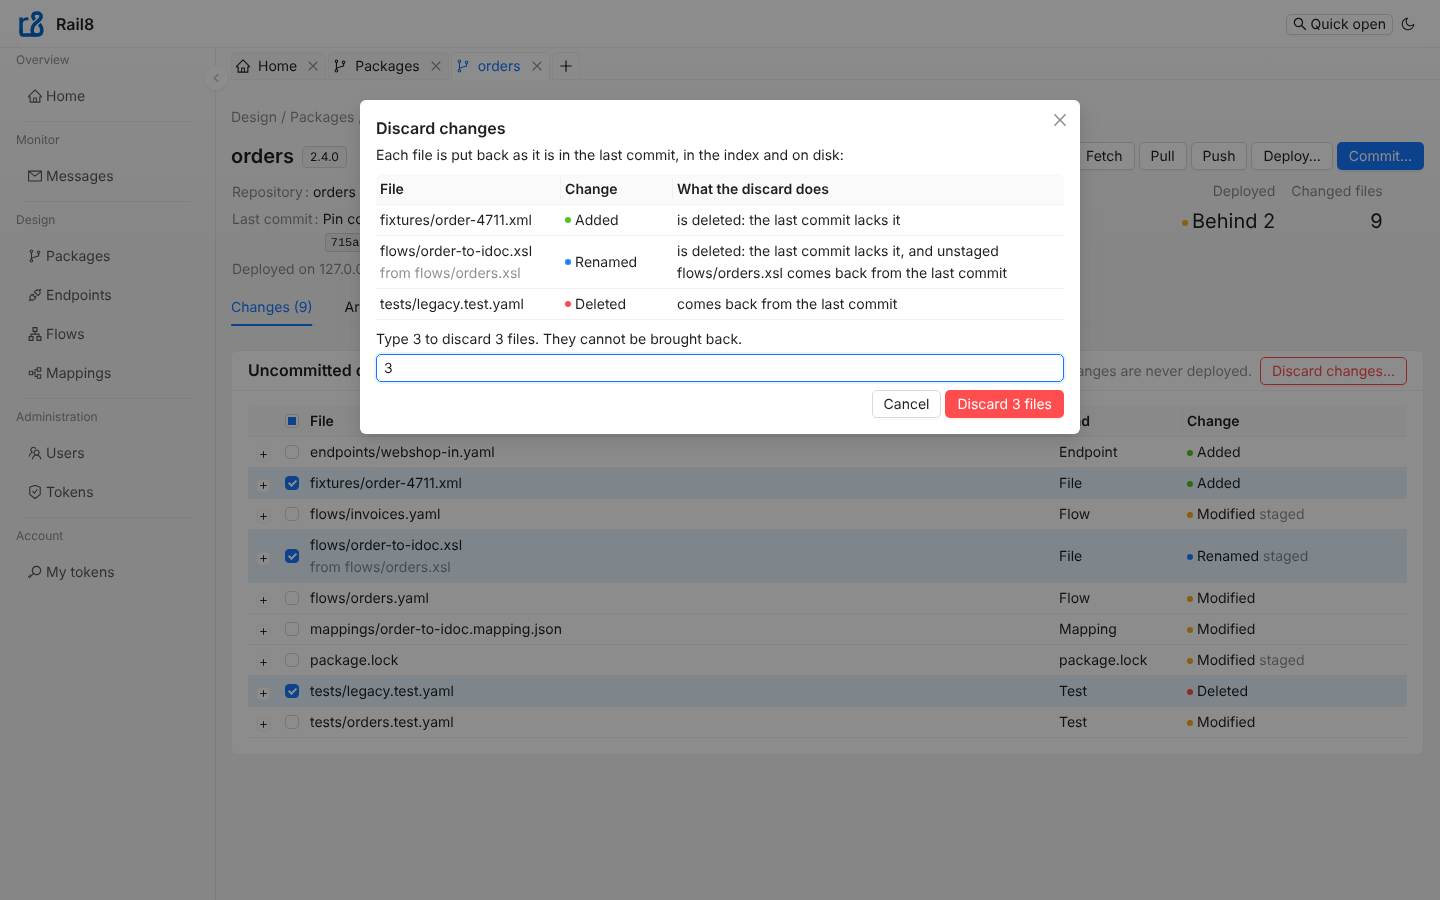
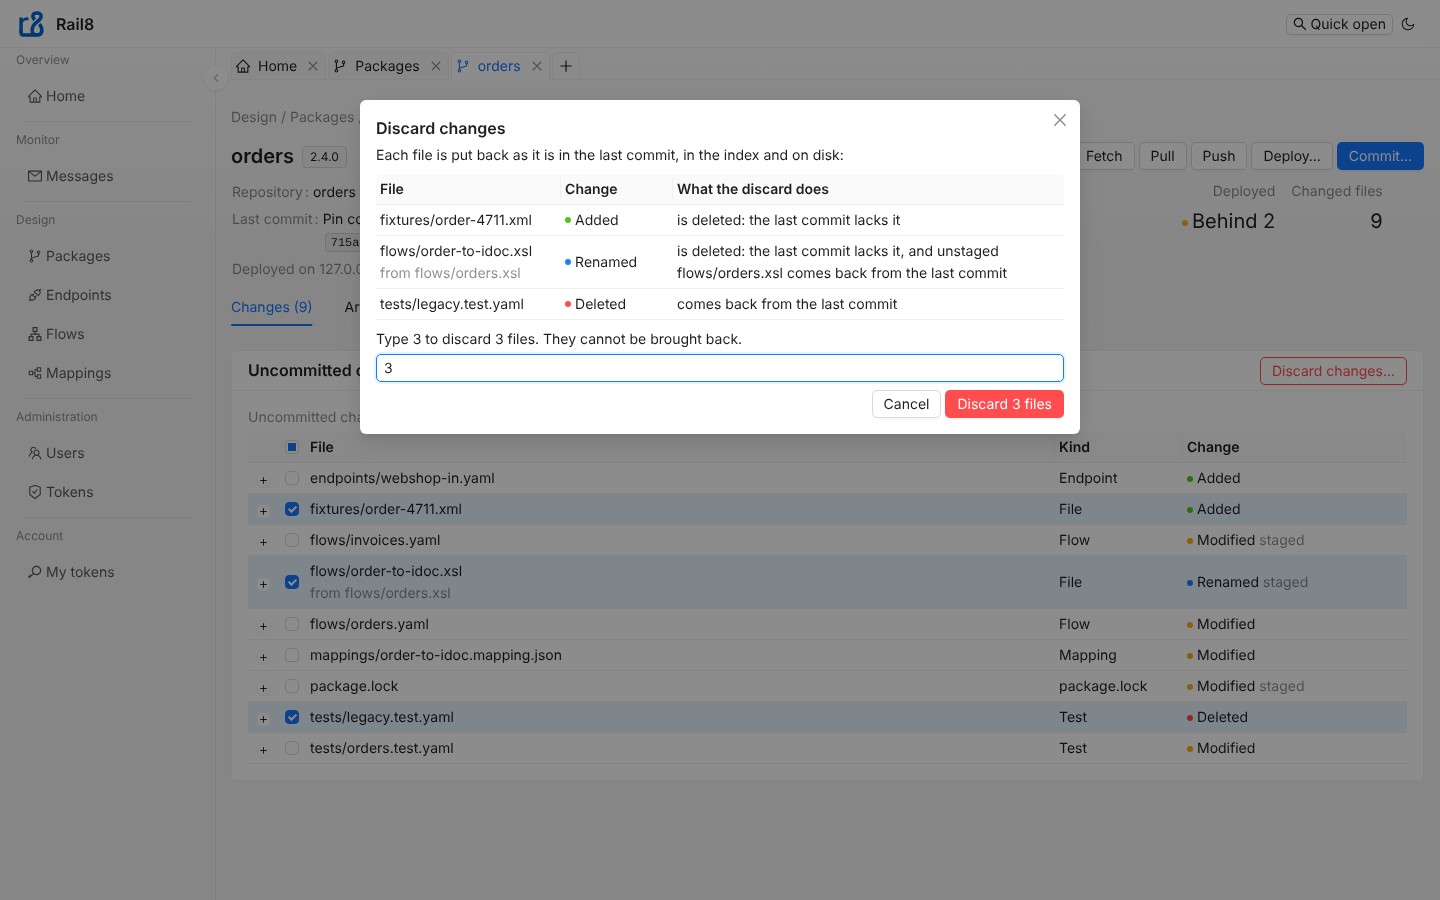
Discard: say only what the answer holds, and one item in the card header
The dialog after a discard is "Discarded in part" only when files are left,
lists them only then, and says that no chosen file reads as in the last
commit yet, never that no change was discarded. A server failure reads as
failed, not refused. The note that uncommitted changes are never deployed
moves above the table, so the Changes card's header holds Discard changes…
alone. The Changes table ticks only paths among the current changes.

Claude-Session: https://claude.ai/code/session_018sN5AVCgF8qj2BGSZvsZUU

diff --git a/ui/src/packages/DiscardChangesDialog.tsx b/ui/src/packages/DiscardChangesDialog.tsx
@@ -51,7 +51,7 @@ function listedOf(picked: readonly Change[], changes: readonly Change[]): Listed
     });
 }
 
-type Shown = { kind: 'choosing' } | { kind: 'refused'; error: string; output?: string } | { kind: 'discarded'; answer: DiscardAnswer };
+type Shown = { kind: 'choosing' } | { kind: 'refused'; error: string; failed: boolean; output?: string } | { kind: 'discarded'; answer: DiscardAnswer };
 
 /**
  * The dialog of Discard changes…: every file the discard changes, each with what happens to it, and above them an alert
@@ -111,8 +111,8 @@ export function DiscardChangesDialog({ api, repository, state, picked, onState, 
       }
     } catch (error) {
       onState(null);
-      if (error instanceof PackagesError) setShown({ kind: 'refused', error: error.message, ...(error.output === undefined ? {} : { output: error.output }) });
-      else setShown({ kind: 'refused', error: error instanceof Error ? error.message : String(error) });
+      if (error instanceof PackagesError) setShown({ kind: 'refused', error: error.message, failed: error.status >= 500, ...(error.output === undefined ? {} : { output: error.output }) });
+      else setShown({ kind: 'refused', error: error instanceof Error ? error.message : String(error), failed: true });
     } finally {
       working.reload(paths.map((p) => p.path));
       setDiscarding(false);
@@ -123,7 +123,7 @@ export function DiscardChangesDialog({ api, repository, state, picked, onState, 
     const { answer } = shown;
     return (
       <MountedModal
-        title="Discarded in part"
+        title={answer.left.length > 0 ? 'Discarded in part' : 'Discarded'}
         onCancel={onClose}
         width={720}
         footer={[
@@ -133,13 +133,13 @@ export function DiscardChangesDialog({ api, repository, state, picked, onState, 
         ]}
       >
         <Flex vertical gap="middle">
-          <Typography.Text>{answer.discarded.length === 0 ? 'No change was discarded.' : `Discarded the changes of ${answer.discarded.map(inside).join(', ')}.`}</Typography.Text>
-          <Alert
-            type="warning"
-            showIcon
-            title={`Still changed: ${answer.left.map(inside).join(', ')}`}
-            description={answer.problem !== undefined && <Output text={answer.problem} />}
-          />
+          <Typography.Text>
+            {answer.discarded.length === 0 ? 'No chosen file reads as in the last commit yet.' : `Discarded the changes of ${answer.discarded.map(inside).join(', ')}.`}
+          </Typography.Text>
+          {answer.left.length > 0 && (
+            <Alert type="warning" showIcon title={`Still changed: ${answer.left.map(inside).join(', ')}`} description={answer.problem !== undefined && <Output text={answer.problem} />} />
+          )}
+          {answer.left.length === 0 && answer.problem !== undefined && <Alert type="warning" showIcon title={answer.problem} />}
         </Flex>
       </MountedModal>
     );
@@ -171,7 +171,7 @@ export function DiscardChangesDialog({ api, repository, state, picked, onState, 
           <Alert
             type="error"
             showIcon
-            title="The discard was refused"
+            title={shown.failed ? 'The discard failed' : 'The discard was refused'}
             description={
               <Flex vertical gap="small">
                 <span>{shown.error}</span>

diff --git a/ui/src/packages/PackageTab.browser.test.tsx b/ui/src/packages/PackageTab.browser.test.tsx
@@ -751,6 +751,32 @@ describe('discarding changes of a package', () => {
     await expect.element(tick()).not.toBeChecked();
   });
 
+  test('a discard that left files says which and why, and one whose state could not be read names what it discarded, never that files are left', async () => {
+    const answers = [
+      { discarded: [], left: ['orders/notes.txt'], package: null, problem: 'git checkout-index failed, as git says: error: unable to write file notes.txt' },
+      { discarded: ['orders/notes.txt'], left: [], package: null, problem: 'the package could not be read: package.yaml is missing' },
+    ];
+    const scripted = (api: PackagesApi): PackagesApi => ({ ...api, discard: async () => answers.shift()! });
+    for (const title of ['Discarded in part', 'Discarded']) {
+      await openOrders({ clones: [{ folder: 'orders', files: { 'notes.txt': 'one\n' }, edits: { 'notes.txt': 'two\n' } }] }, scripted);
+      await pick('notes.txt').click();
+      await button('Discard changes…').click();
+      await tick().click();
+      await discardButton('1 file').click();
+      const shown = page.getByRole('dialog', { name: title, exact: true });
+      if (title === 'Discarded in part') {
+        await expect.element(shown.getByText('No chosen file reads as in the last commit yet.')).toBeVisible();
+        await expect.element(shown.getByRole('alert')).toMatchTextContent(/^Still changed: notes\.txtgit checkout-index failed/);
+      } else {
+        await expect.element(shown.getByText('Discarded the changes of notes.txt.')).toBeVisible();
+        await expect.element(shown.getByText('the package could not be read: package.yaml is missing')).toBeVisible();
+        await expect.element(shown.getByText(/Still changed/)).not.toBeInTheDocument();
+      }
+      root?.unmount();
+      document.body.innerHTML = '';
+    }
+  });
+
   test('Discard changes… is disabled with the reason on a read-only server and on a busy clone', async () => {
     const cases: [Seed, string][] = [
       [{ readOnly: true, clones: [{ folder: 'orders', files: { 'a.txt': 'a\n' }, edits: { 'a.txt': 'b\n' } }] }, 'The server shows the working folder read-only (RAIL8_READ_ONLY is true).'],

diff --git a/ui/src/packages/PackageTab.tsx b/ui/src/packages/PackageTab.tsx
@@ -168,27 +168,25 @@ export function PackageTab({ api, repository, now, open, writable }: PackageTabP
             title={<h2>Uncommitted changes</h2>}
             headerBordered
             extra={
-              state.changes.length > 0 && (
-                <Flex gap="middle" align="center" wrap justify="flex-end">
-                  {state.deployed.node === 'answered' && state.deployed.relation !== 'none' && <Typography.Text type="secondary">Uncommitted changes are never deployed.</Typography.Text>}
-                  <DiscardButton refused={discardRefused(writable, state, chosen.length)} onClick={() => setDiscarding(true)} />
-                </Flex>
-              )
+              state.changes.length > 0 && <DiscardButton refused={discardRefused(writable, state, chosen.length)} onClick={() => setDiscarding(true)} />
             }
           >
             {state.changes.length === 0 ? (
               <Empty description="No file differs from the last commit." />
             ) : (
-              <ChangesTable
-                api={api}
-                repository={repository}
-                changes={state.changes}
-                before={state.head?.id ?? null}
-                after="work"
-                onStale={refresh}
-                label="Changes"
-                choice={{ picked, onPick: setPicked }}
-              />
+              <Flex vertical gap="small">
+                {state.deployed.node === 'answered' && state.deployed.relation !== 'none' && <Typography.Text type="secondary">Uncommitted changes are never deployed.</Typography.Text>}
+                <ChangesTable
+                  api={api}
+                  repository={repository}
+                  changes={state.changes}
+                  before={state.head?.id ?? null}
+                  after="work"
+                  onStale={refresh}
+                  label="Changes"
+                  choice={{ picked: chosen.map((c) => c.path), onPick: setPicked }}
+                />
+              </Flex>
             )}
           </ProCard>,
         )}

diff --git a/ui/src/packages/server/discard.ts b/ui/src/packages/server/discard.ts
@@ -168,8 +168,8 @@ export async function discardPaths(git: Runner, lock: WorkingFolderLock, clone: 
         if (info !== null && !info.isDirectory()) meet(p.path, folder);
       }
       if (onDisk[n]?.isDirectory()) {
-        const held = await readdir(join(clone, ...inside.split('/')));
-        if (held.length > 0) meet(p.path, `${inside}/${held.sort(byPath)[0]!}`);
+        const contents = await readdir(join(clone, ...inside.split('/')));
+        if (contents.length > 0) meet(p.path, `${inside}/${contents.sort(byPath)[0]!}`);
       }
     }
     const written = named.filter((inside) => held.has(inside));
